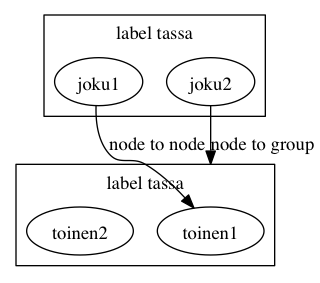
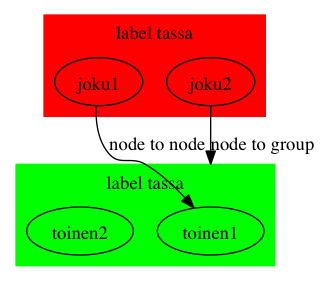
Cluster background color added to dotty

diff --git a/generators/digraph.js b/generators/digraph.js
@@ -36,6 +36,10 @@ function digraph(yy){
 			debug(JSON.stringify(o));
 			yy.result('subgraph cluster_'+o.getName()+' {');
 			yy.result(	getAttrFmt(o,'label','label="{0}";'));
+			if (o.getColor()!=undefined){
+				yy.result("  style=filled;\n");
+				yy.result(getAttrFmt(o,'color','  color="{0}";\n'));
+			}
 			for(var j in o.OBJECTS){
 				var z=o.OBJECTS[j];
 				var s=	getAttrFmt(z,'color',',color="{0}"')+
